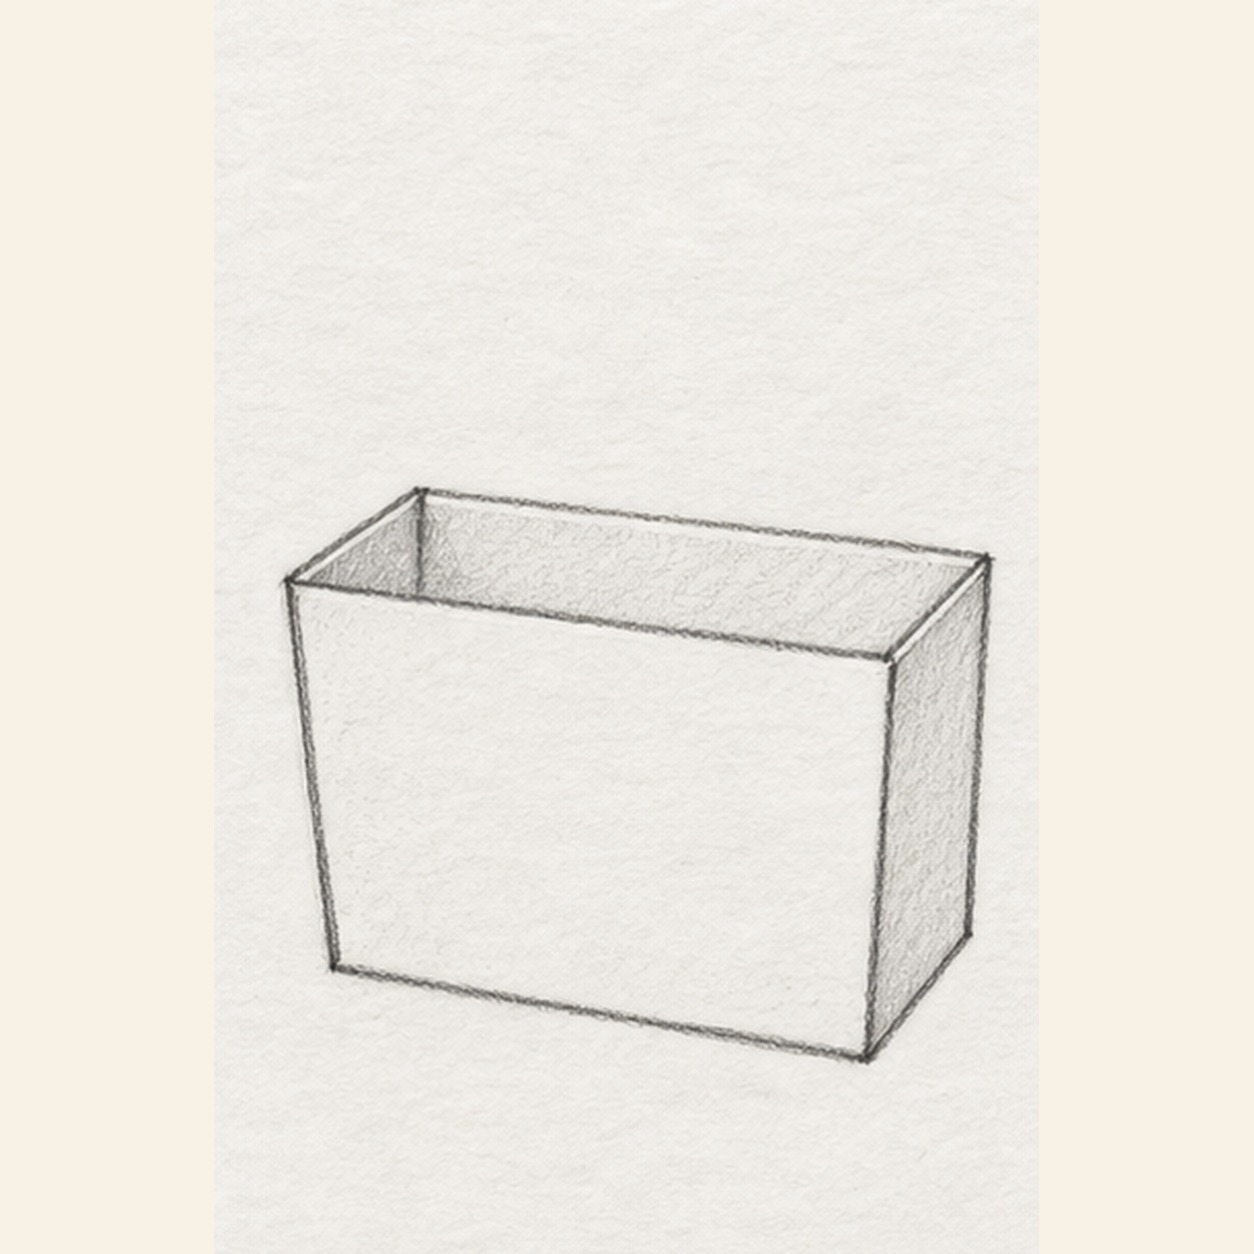
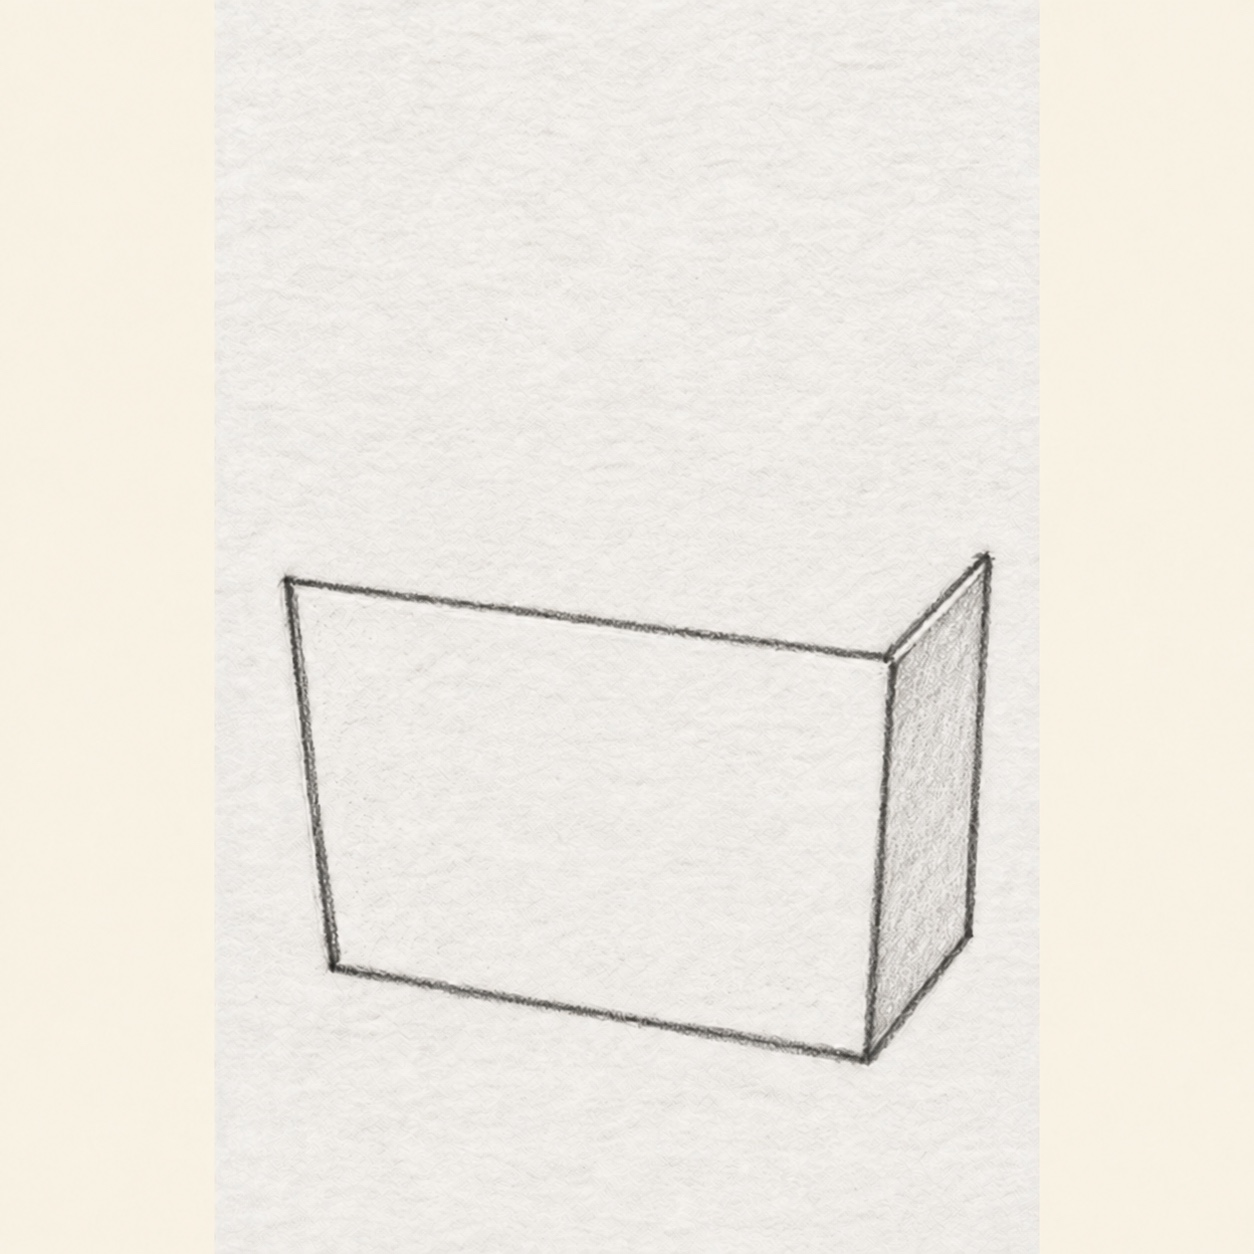
Repair crayon box first step

diff --git a/tutorials/open-box-of-five-crayons.html b/tutorials/open-box-of-five-crayons.html
@@ -58,7 +58,7 @@
         "https://sketcha.day/assets/social/open-box-of-five-crayons-og.jpg"
       ],
       "datePublished": "2026-09-14",
-      "dateModified": "2026-09-14",
+      "dateModified": "2026-09-15",
       "author": {
         "@id": "https://sketcha.day/#organization"
       },
@@ -91,13 +91,13 @@
       "step": [
         {
           "@type": "HowToStep",
-          "name": "Shape the open carton",
-          "text": "Draw a broad shallow trapezoid for the box front, then turn both upper corners back with short side walls. Join the lower corners so the carton sits as one open container, leaving its entire top edge open for the crayons."
+          "name": "Shape the carton front",
+          "text": "Draw a broad shallow trapezoid for the box front. From its upper-right corner, angle one short line back, drop the outer side edge, and join it to the lower-right corner. Leave the whole area above the front top edge blank for the crayons."
         },
         {
           "@type": "HowToStep",
           "name": "Stand up five crayons",
-          "text": "From five separate positions inside the open top, raise exactly five narrow parallel crayon shafts. Close each with two sloping tip edges and a small rounded wax point, varying the heights without changing their shared angle."
+          "text": "From five separate positions just behind the front top edge, raise exactly five narrow parallel crayon shafts. Close each with two sloping tip edges and a small rounded wax point, varying the heights without changing their shared angle."
         },
         {
           "@type": "HowToStep",
@@ -199,12 +199,12 @@
             <button class="step-check" type="button" aria-label="Mark step 1 complete"><span></span></button>
             <div class="step-number">01</div>
             <div class="step-art">
-              <img src="../assets/open-box-of-five-crayons-step-1.webp" alt="Shape the open carton stage for how to draw an open box of crayons" width="627" height="627" loading="lazy">
+              <img src="../assets/open-box-of-five-crayons-step-1.webp" alt="Shape the carton front stage for how to draw an open box of crayons" width="627" height="627" loading="lazy">
             </div>
             <div class="step-copy">
-              <h3>Shape the open carton</h3>
-              <p>Draw a broad shallow trapezoid for the box front, then turn both upper corners back with short side walls. Join the lower corners so the carton sits as one open container, leaving its entire top edge open for the crayons.</p>
-              <p class="artist-tip"><strong>Sketch tip:</strong> Ghost the two top angles before touching down. Keep the front broad and the side walls short so the box reads clearly without deep perspective.</p>
+              <h3>Shape the carton front</h3>
+              <p>Draw a broad shallow trapezoid for the box front. From its upper-right corner, angle one short line back, drop the outer side edge, and join it to the lower-right corner. Leave the whole area above the front top edge blank for the crayons.</p>
+              <p class="artist-tip"><strong>Sketch tip:</strong> Keep this first step spare: one front plane and one outer side plane. Do not draw a back wall or inner rim that the crayons would immediately cover.</p>
             </div>
           </li>
           <li class="step-card">
@@ -215,7 +215,7 @@
             </div>
             <div class="step-copy">
               <h3>Stand up five crayons</h3>
-              <p>From five separate positions inside the open top, raise exactly five narrow parallel crayon shafts. Close each with two sloping tip edges and a small rounded wax point, varying the heights without changing their shared angle.</p>
+              <p>From five separate positions just behind the front top edge, raise exactly five narrow parallel crayon shafts. Close each with two sloping tip edges and a small rounded wax point, varying the heights without changing their shared angle.</p>
               <p class="artist-tip"><strong>Sketch tip:</strong> Place the center crayon tallest, then compare the four negative spaces between shafts. Count five points before moving on.</p>
             </div>
           </li>

diff --git a/index.html b/index.html
@@ -103,12 +103,12 @@
             <button class="step-check" type="button" aria-label="Mark step 1 complete"><span></span></button>
             <div class="step-number">01</div>
             <div class="step-art">
-              <img src="assets/open-box-of-five-crayons-step-1.webp" alt="Shape the open carton stage for how to draw an open box of crayons" width="627" height="627" loading="lazy">
+              <img src="assets/open-box-of-five-crayons-step-1.webp" alt="Shape the carton front stage for how to draw an open box of crayons" width="627" height="627" loading="lazy">
             </div>
             <div class="step-copy">
-              <h3>Shape the open carton</h3>
-              <p>Draw a broad shallow trapezoid for the box front, then turn both upper corners back with short side walls. Join the lower corners so the carton sits as one open container, leaving its entire top edge open for the crayons.</p>
-              <p class="artist-tip"><strong>Sketch tip:</strong> Ghost the two top angles before touching down. Keep the front broad and the side walls short so the box reads clearly without deep perspective.</p>
+              <h3>Shape the carton front</h3>
+              <p>Draw a broad shallow trapezoid for the box front. From its upper-right corner, angle one short line back, drop the outer side edge, and join it to the lower-right corner. Leave the whole area above the front top edge blank for the crayons.</p>
+              <p class="artist-tip"><strong>Sketch tip:</strong> Keep this first step spare: one front plane and one outer side plane. Do not draw a back wall or inner rim that the crayons would immediately cover.</p>
             </div>
           </li>
           <li class="step-card">
@@ -119,7 +119,7 @@
             </div>
             <div class="step-copy">
               <h3>Stand up five crayons</h3>
-              <p>From five separate positions inside the open top, raise exactly five narrow parallel crayon shafts. Close each with two sloping tip edges and a small rounded wax point, varying the heights without changing their shared angle.</p>
+              <p>From five separate positions just behind the front top edge, raise exactly five narrow parallel crayon shafts. Close each with two sloping tip edges and a small rounded wax point, varying the heights without changing their shared angle.</p>
               <p class="artist-tip"><strong>Sketch tip:</strong> Place the center crayon tallest, then compare the four negative spaces between shafts. Count five points before moving on.</p>
             </div>
           </li>

diff --git a/HUMANS.md b/HUMANS.md
@@ -1,5 +1,14 @@
 # Human Notes
 
+## 2026-09-15 — Crayon-box Step 1 continuity repair (Codex)
+
+- Repaired published `open-box-of-five-crayons` Step 1 after owner review identified rear-rim, back-wall, inner-edge, and interior-shading detail that Step 2 immediately covered with crayons.
+- The corrected first frame keeps only the persistent front trapezoid and outer-right side plane, leaving the five-crayon insertion area blank. Step 1 and Step 2 copy, schema-v5 observations, hashes, and `dateModified` were renewed; Steps 2–5 and the finished master remain unchanged.
+- The superseded published Step 1 and a rejected stray-line edit are preserved privately under `drafts/open-box-of-five-crayons/`.
+- Full readiness passed: schema-v5 review, five transition deltas, regenerated Step 1 WebP, 274 internal URLs, JSON-LD, asset usage, ledger, and diff checks. Rendered desktop 1440x1000 and mobile 390x844 homepage, library, and tutorial QA passed on the documented fallback server with all 133 library images loaded, no broken images, no overflow, valid JSON-LD, and no public `lab.html` links.
+- Harness: Codex; task: targeted live-lesson correction.
+- Local path: /Users/mybbor/Library/CloudStorage/Dropbox/websites/sketcha.day; sister: doodlea.day.
+
 ## 2026-09-14 — Daily crayon-box lesson (Codex)
 
 - Added `open-box-of-five-crayons`, September 14 / Day 135. Five direct graphite stages preserve one open three-quarter-view carton, exactly five crayons, two outward flaps, five dark wrapper bands, one blank oval label, two front seams, three wear nicks, two paper highlights, and one broken shadow through the restrained red, orange, yellow, teal, blue, cream, coral, and gray finish. Teaching rated 8.8/10; finish rated 8.9/10.
